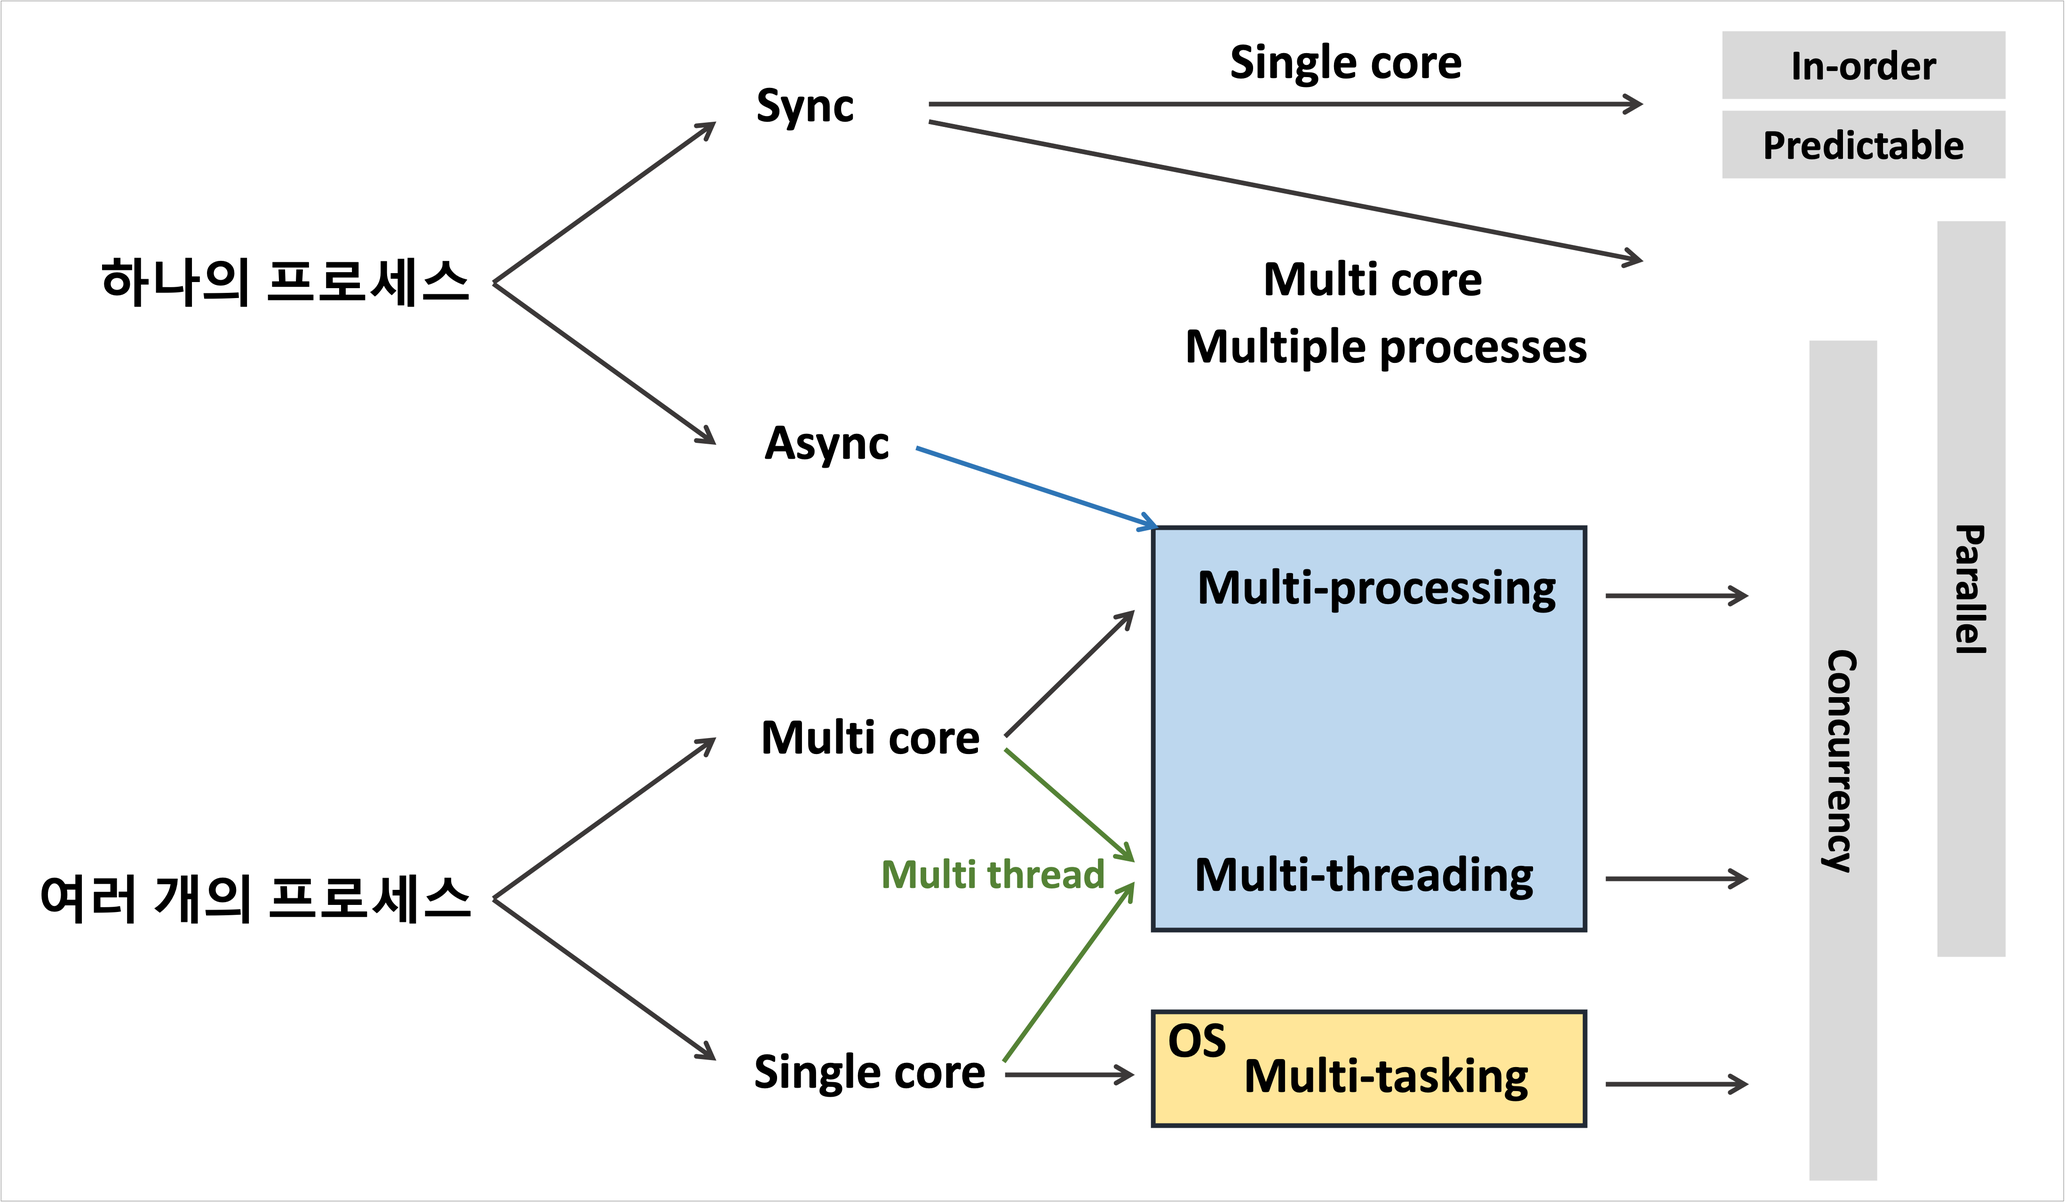
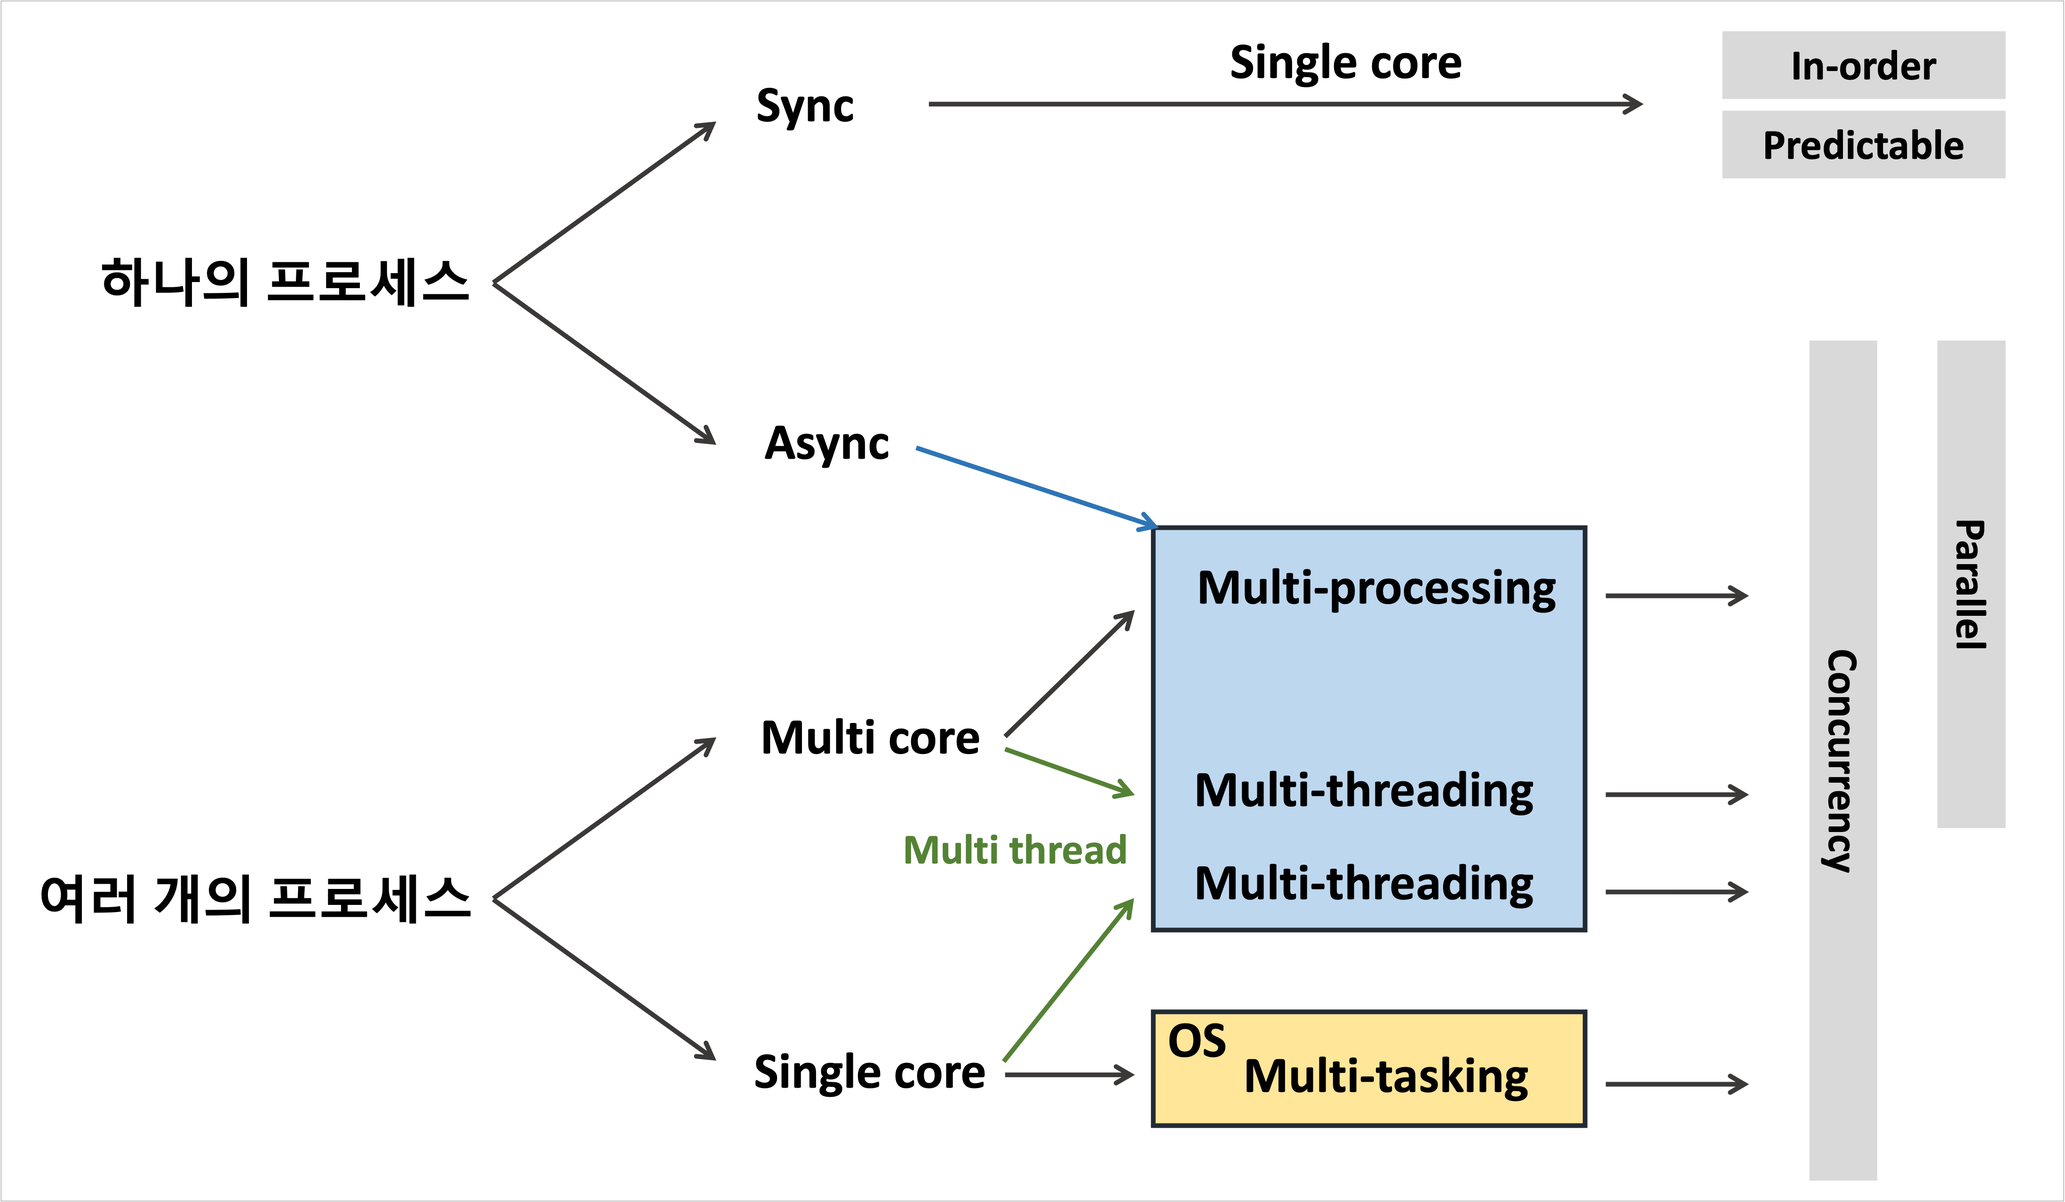
update

diff --git a/_posts/os/2022-06-16-os-series5.md b/_posts/os/2022-06-16-os-series5.md
@@ -3,7 +3,7 @@ layout: post
 title:  'OS Series [Part5]: Sync vs Async vs Concurrent vs Parallel'
 description: 
 date:   2022-06-16 15:01:35 +0300
-image:  '/images/os_3.png'
+image:  '/images/os_35.png'
 logo_image:  '/images/os_logo.png'
 categories: CS
 tags: OS
@@ -30,41 +30,33 @@ tags: OS
 # Sync vs. Async
 Sync and async are two different programming models, which refer to styles of programming - how you should write code and how your code will run.  
 
-Synchronous tasks happen in order — you must finish task one before moving on to the next. Asynchronous tasks can be executed in any order, or even simultaneously. How can this be understood in terms of programming?  
+동기 프로그래밍에서 작업은 순차적으로 처리된다. 비동기 프로그래밍에서 작업은 어떤 순서로도 처리될 수 있다. 심지어 동시에 처리될 수도 있다.  
 
-Understanding how these two models differ is critical in building application programming interfaces (APIs), creating event-based architectures, and deciding how to handle long-running tasks. In choosing which method to use and when, it’s important to know a few key things about synchronous programming and asynchronous programming.  
+이 두 모델은 API, 또는 이벤트 기반 아키텍처, long-running 작업을 핸들링하기 위해 반드시 이해해야 한다.  
 
-The differences between asynchronous and synchronous include:  
+동기와 비동기의 차이는 다음을 포함한다.  
 
-Async is multi-thread, which means operations or programs can run in parallel. Sync is single-thread, so only one operation or program will run at a time.  
-Async is non-blocking, which means it will send multiple requests to a server. Sync is blocking — it will only send the server one request at a time and will wait for that request to be answered by the server.  
-Async increases throughput because multiple operations can run at the same time. Sync is slower and more methodical.
-Differences aside, asynchronous and synchronous methods both offer advantages, but for different stakeholders: async for users, sync for developers.  
+- Async is multi-thread, which means operations or programs can run in parallel. Sync is single-thread, so only one operation or program will run at a time.  
+- Async is non-blocking, which means it will send multiple requests to a server. Sync is blocking — it will only send the server one request at a time and will wait for that request to be answered by the server.  
+- Async increases throughput because multiple operations can run at the same time. Sync is slower and more methodical.
+- Differences aside, asynchronous and synchronous methods both offer advantages, but for different stakeholders: async for users, sync for developers.  
 
+비동기 프로그래밍은 대개 유저 경험을 향상시킨다. 작업을 순차적으로 처리하지 않고, 동시다발적으로 처리하기 때문에 요청에서 응답까지의 시간을 줄일 수 있다.  
 
-Asynchronous programming enhances a user’s experience by decreasing the lag time between when a function is called and when the value of that function is returned. In the real world, this translates to a faster, more seamless flow. For example, users want their apps to run fast, but it takes time to fetch data from an application programming interface (API). In these cases, asynchronous programming helps the app screens load faster, improving the user experience.  
+동기 프로그래밍은 개발자에게 이점을 준다. 쉽게 말해 코드를 작성하기가 훨씬 수월하다.  
 
-Synchronous programming, on the other hand, is advantageous for developers. Quite simply, synchronous programming is much easier to code. It’s well supported among all programming languages, and as the default programming method, developers don’t have to spend time learning something new that could open the door to bugs.  
+언제 비동기 프로그래밍을 사용해야 할까?  
 
+비동기 작업은 독립적인 태스크들에 사용돼야 한다. 반응형 UI와 같은 작업을 예로 들어보자. 사용자가 주문을 할 때 폰트가 커져야 한다고 할 때, 이전 주문 내역을 불러오는 일과 폰트가 커지는 작업을 굳이 순서대로 할 필요가 없다. 이러한 작업은 함께 처리되도록 하는 것이 낫다.  
 
-When to use async  
-Asynchronous programming should only be used in programming independent tasks, where it plays a critical role. For instance, asynchronous programs are ideal for development projects with a large number of iterations. Because steps don’t have to follow a fixed sequence, asynchronous programming keeps development moving forward.  
-
-Responsive UI is a great use case for asynchronous planning. Take, for example, a shopping app. When a user pulls up their order, the font size should increase. Instead of first waiting to load the history and update the font size, asynchronous programming can make both actions happen simultaneously.  
-
-When to use sync  
-Asynchronous programming is relatively complex. It can overcomplicate things and make code difficult to read. Synchronous programming, on the other hand, is fairly straightforward; its code is easier to write and doesn’t require tracking and measuring process flows (as async does). Because tasks are dependent on each other, there’s a need to know if they could run independently without interrupting each other.   
-
-Synchronous programming could be appropriate for a shopping app, for example. When checking out online, a user wants to buy all of their items together, not individually. Instead of completing an order every time the user adds something to their cart, synchronous programming ensures that the payment method and shipping destination for all items are selected at the same time.  
+동기 작업은 우선 코드를 작성하고 읽는데 부담이 줄어든다. 또한 만약 사용자가 상품들을 구매한다고 할 때, 상품 선택과 구매는 동기 작업으로 이루어져야 한다. 이렇게 의존적인 관계에 있는 태스크들은 동기 프로그래밍해야 한다.  
 
 
 # Sync
 
-Synchronous is known as a blocking architecture and is ideal for programming reactive systems. As a single-thread model, it follows a strict set of sequences, which means that operations are performed one at a time, in perfect order. While one operation is being performed, other operations’ instructions are blocked. The completion of the first task triggers the next, and so on.  
+동기 프로그래밍은 blocking 아키텍처이다. 이는 작업의 실행이 시간마다 하나씩만 실행될 수 있으며 하나의 작업이 실행되는 동안 다른 작업은 blocked된다. 하나의 작업의 종료가 다른 작업의 시작을 트리거한다.  
 
-To illustrate how synchronous programming works, think of a telephone. During a phone call, while one person speaks, the other listens. When the first person finishes, the second tends to respond immediately.  
-
-동기 프로그래밍으로 작성된 코드는 내가 작성한 순서대로 실행될 것이다. 
+동기 프로그래밍으로 작성된 코드는 내가 작성한 순서대로 실행된다.  
 
 ```js
 func step1() { print("1") }
@@ -82,11 +74,11 @@ func main() {
 
 # Async
 
-Asynchronous programming, conversely, is a multithreaded model that’s most applicable to networking and communications. Asynchronous is a non-blocking architecture, which means it doesn’t block further execution while one or more operations are in progress.  
 
-With asynchronous programming, multiple related operations can run concurrently without waiting for other tasks to complete. During asynchronous communication, parties receive and process messages when it’s convenient or possible to do so, rather than responding immediately upon receipt.  
+비동기 프로그래밍은 반대로 non-blocking 아키텍처다. 이 말은 하나의 작업이 다른 작업의 실행을 방해하지 않는다는 뜻이다. 그래서 여러 개의 작업이 concurrent하게 실행될 수 있고, 서로가 다른 작업의 시작과 끝을 기다리지 않는다.  
 
-Texting is an asynchronous communication method. One person can send a text message and the recipient can respond at their leisure. In the meantime, the sender may do other things while waiting for a response.  
+채팅 프로그램이 비동기 프로그래밍의 좋은 예가 된다. 한 사람이 텍스트를 보내는 작업이 다른 사람의 텍스트 전송 작업을 막지 못한다.  
+
 비동기 프로그래밍으로 작성된 코드는 내부에 작성된 작업들이 동시다발적으로 실행된다.  
 
 
@@ -104,32 +96,26 @@ func main() {
 
 위의 결과를 보면 결과가 undeterministic하다. 이러한 특성 때문에 비동기 프로그래밍을 unpredictable programming model이라고도 한다. 비동기 프로그래밍은 각각의 작업이 서로 의존적이지 않은 경우, 그리고 순서가 중요하지 않은 경우에 사용할 수 있다.  
 
+비동기 프로그래밍은 멀티 코어 환경일 경우 동시성과 병렬성, 싱글 코어 환경일 경우 동시성을 제공한다.  
 
-
-# con
+# 동시성(Concurrency)
 
 ![](/images/os_33.png)
 
 동시성(Concurrency)를 얻으려면 무조건 비동기 프로그래밍으로 코드를 작성해야 한다. 
 
-Concurrent and parallel are effectively the same principle as you correctly surmise, both are related to tasks being executed simultaneously although I would say that parallel tasks should be truly multitasking, executed "at the same time" whereas concurrent could mean that the tasks are sharing the execution thread while still appearing to be executing in parallel.  
+동시성과 병렬성은 얼핏 헷갈린다. 왜냐하면 둘 다 여러 작업을 처리하기 때문이다. 하지만 동시성은 **여러 작업이 스레드 또는 코어를 공유한다는 개념**에 더 가깝다. 정말로 우리가 생각하는 여러 작업이 동시에 실행되는 것을 병렬성이라고 얘기한다.  
 
-Asynchronous methods aren't directly related to the previous two concepts, asynchrony is used to present the impression of concurrent or parallel tasking but effectively an asynchronous method call is normally used for a process that needs to do work away from the current application and we don't want to wait and block our application awaiting the response.  
+동시성은 작업을 하나씩 순차적으로 실행하는 것이 아니라, 여러 작업을 번갈아가며 실행하는 것을 의미한다. 만약 싱글 코어 환경이라면, 동시성은 컨텍스트 스위칭을 통해 얻어진다.  
+ 
 
-For example, getting data from a database could take time but we don't want to block our UI waiting for the data. The async call takes a call-back reference and returns execution back to your code as soon as the request has been placed with the remote system. Your UI can continue to respond to the user while the remote system does whatever processing is required, once it returns the data to your call-back method then that method can update the UI (or handoff that update) as appropriate.  
+# 병렬성(Parallel)
 
-Concurrency means executing multiple tasks at the same time but not necessarily simultaneously. When you have to perform more than one task but you have a single resource then we go for concurrency. In a single-core environment, concurrency is achieved by context switching.  
-
-Parallelism is like performing more than one task simultaneously like you can sing and bath together. Now you are doing the tasks in parallel.  
-
-The term asynchronous is related to thread execution. In an asynchronous model, when one task gets executed, you can switch to a different task without waiting for the previous task to get completed.  
-
-Asynchronous programming helps us to achieve concurrency. Asynchronous programming in a multi-threaded environment is a way to achieve parallelism.  
-
-# parallel
+병렬성은 여러 작업이 정말로 동시에 처리되는 것을 의미한다. 병렬성은 반드시 멀티 코어 환경에서만 얻을 수 있다. 
 
 ![](/images/os_34.png)
-## 멀티 프로세싱
+
+# 멀티 프로세싱
 
 멀티 프로세싱은 다수의 프로세서가 서로 협력적으로 일을 처리하는 것을 의미한다. 프로세스 간 통신을 하기 위해서는 IPC를 통해야 한다.   
 
@@ -141,10 +127,10 @@ Asynchronous programming helps us to achieve concurrency. Asynchronous programmi
 
 - 단점
   - 메모리 사용량이 많다
-  - 독립된 메모리 영역이기 때문에 작업량이 많을수록( Context Switching이 자주 일어나서 주소 공간의 공유가 잦을 경우) 오버헤드가 발생하여 성능저하가 발생 할 수 있다.
+  - 독립된 메모리 영역이기 때문에 작업량이 많을수록(Context Switching이 자주 일어나서 주소 공간의 공유가 잦을 경우) 오버헤드가 발생하여 성능저하가 발생 할 수 있다.
   - Context Switching 과정에서 캐시 메모리 초기화 등 무거운 작업이 진행되고 시간이 소모되는 등 오버헤드가 발생한다.
 
-## 멀티 스레딩
+# 멀티 스레딩
 
 멀티 스레딩은 하나의 프로세스를 스레드 단위로 프로세서에게 할당해 병렬 처리하는 것을 의미하며, 여러 개의 스레드는 서로 자원을 공유할 수 있다.  
 
@@ -152,7 +138,6 @@ Asynchronous programming helps us to achieve concurrency. Asynchronous programmi
 
 
 - 장점
-
   - 응답성 향상: 한 스레드가 입출력으로 인해 작업이 진행되지 않더라도 다른 스레드가 작업을 계속하여 사용자의 작업 요구에 빨리 응답할 수 있다
   - 자원 공유: 한 프로세스 내에서 독립적인 스레드를 생성하면 프로세스가 가진 자원을 모든 스레드가 공유하게 되어 작업을 원활하게 진행할 수 있다
   - 효율성 향상: 불필요한 자원의 중복을 막음으로써 시스템의 효율이 향상된다
@@ -178,7 +163,7 @@ Asynchronous programming helps us to achieve concurrency. Asynchronous programmi
   - 단일 프로세스 시스템의 경우 효과를 기대하기 어렵다.
   - 스레드를 활용하면 자원의 효율성이 증가하기도 하지만, 스레드 간의 자원 공유는 전역 변수를 이용하므로 동기화 문제가 발생 할 수 있으므로 프로그래머의 주의가 필요하다.
   - 스레드 하나가 프로세스 내 자원을 망쳐버린다면 모든 프로세스가 종료될 수 있다.
-  - 자원을 공유하기 때문에 필연적으로 동기화 문제가 발생할 수밖에 없다.
+  - 자원을 공유하기 때문에 필연적으로 동기화 문제가 발생할 수밖에 없다.
   - 동기화 그리고 교착상태가 발생하지 않도록 주의해야 한다.
   - 자식 스레드 중 하나에 문제가 생긴경우 전체 프로세스에 영향을 줄 수 있다.
   - race condition, deadlocks, shared resources, and callbacks events 같은 문제들을 처리해야한다.
@@ -208,17 +193,21 @@ Critical Section:
 
 하지만 멀티 스레드 방식의 프로그램에서는 하나의 스레드가 자신이 사용하던 데이터 공간을 망가뜨린다면, 해당 데이터 공간을 공유하는 모든 스레드를 망가뜨릴 수 있다.  
 
-
-# There are several scenarios in which concurrency can occur:
-
-Asynchrony— This means that your program performs non-blocking operations. For example, it can initiate a request for a remote resource via HTTP and then go on to do some other task while it waits for the response to be received. It’s a bit like when you send an email and then go on with your life without waiting for a response.  
-
-Parallelism— This means that your program leverages the hardware of multi-core machines to execute tasks at the same time by breaking up work into tasks, each of which is executed on a separate core. It’s a bit like singing in the shower: you’re actually doing two things at exactly the same time.  
-
-Multithreading— This is a software implementation allowing different threads to be executed concurrently. A multithreaded program appears to be doing several things at the same time even when it’s running on a single-core machine. This is a bit like chatting with different people through various IM windows; although you’re actually switching back and forth, the net result is that you’re having multiple conversations at the same time.  
-
-
 # Global Interpreter Lock
+
+- GIL은 파이썬에서 멀티스레드에 관해 얘기할 때 자주 등장하는 용어다
+- 파이썬은 C언어 같은 언어와 다르게 메모리 관리를 자동 지원한다. 이를 돕는 것을 가비지 컬렉터(GC, Garbage Collector)라고 한다
+- 가비지 컬렉터는 객체가 가지고 있는 참조 횟수 카운트를 보고 카운트가 0인 객체는 더 이상 사용되지 않는다고 판단하고 메모리를 회수한다
+- 근데 여기서 멀티스레드를 사용한다고 하면, 여러 스레드에서 하나의 객체의 참조 횟수 카운트(refcount)를 수정하려고 접근할 수 있다
+- 이 때 파이썬은 문제가 될 것이라고 판단하고, 이로 인해 GC가 제대로 된 기능을 못하게 되는 것을 방지하고자 GIL이라는 개념을 도입했다
+- GIL은 임계 구역 문제를 해결하고자 사용하는 뮤텍스와 같은 것이다
+- 뮤텍스는 하나의 공간을 여러 사용자가 접근하고자 할 때 한 명만 접근하도록 허용하고 나머지는 기다리도록 하기 위해 접근 가능한 사용자에게만 주는 일종의 열쇠이다
+- 이 열쇠를 건네받는 사용자만 이 공간을 사용할 수 있다
+- GIL이 파이썬에서 이 뮤텍스(열쇠)다
+- GIL로 다른 스레드의 접근을 막고 본인 스레드만 객체의 참조 횟수 카운트를 바꿀 수 있도록 하는 것이다
+- 그래야 가비지 컬렉터에게 생기는 혼란을 방지할 수 있고 메모리 관리를 차질없이 할 수 있게 된다
+- [**피그브라더, [Python] GIL (Global Interpreter Lock) 이해하기 참고**](https://it-eldorado.tistory.com/160){:target="_blank"}
+- [**스터디룸, Python GIL(Global Interpreter Lock) 참고**](https://8iggy.tistory.com/241){:target="_blank"}
 
 # 콜백 함수
 
